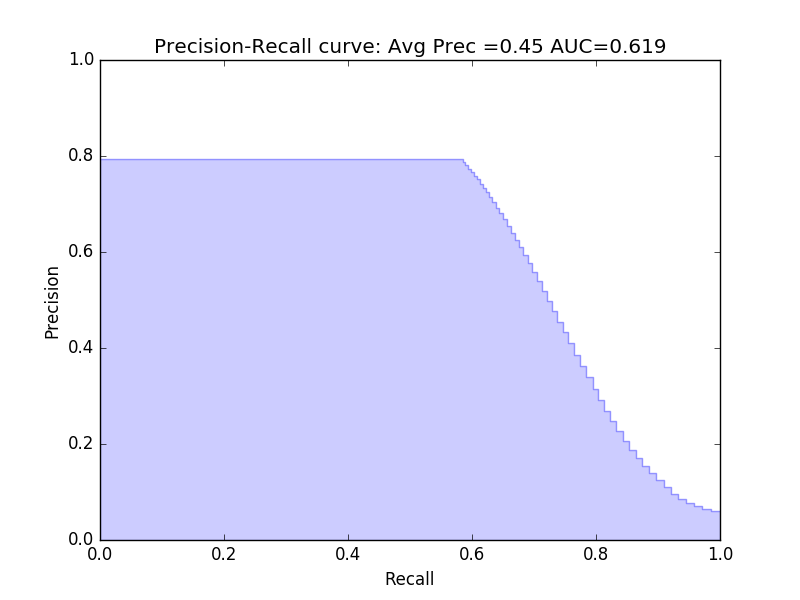
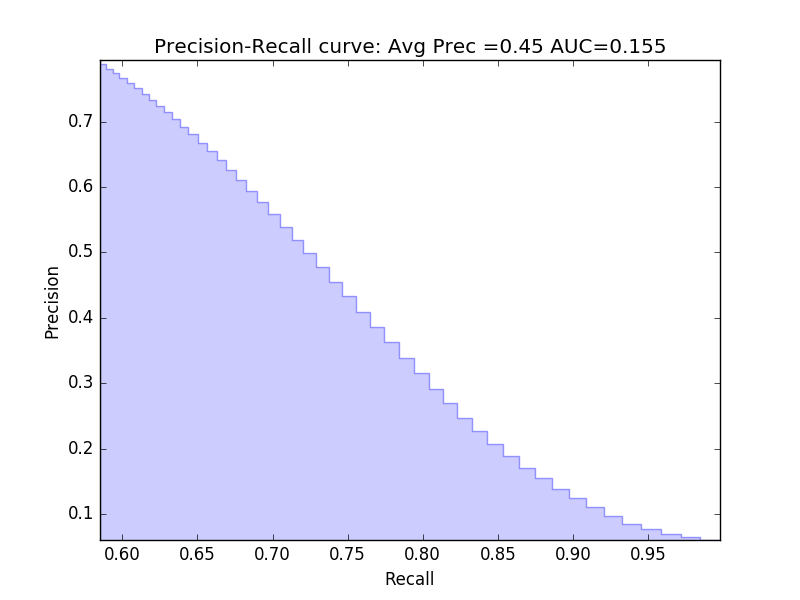
Decide what AUC choose

diff --git a/tools/visualization.py b/tools/visualization.py
@@ -25,10 +25,10 @@ def plot_metrics_vs_threshold(precision, recall, F1_score, threshold,
 
 
 def plot_precision_recall_curve(precision, recall, output_folder=""):
-    precision.insert(0, precision[0])
-    precision.insert(len(precision), precision[-1])
-    recall.insert(0, 1)
-    recall.insert(len(recall), 0)
+    # precision.insert(0, precision[0])
+    # precision.insert(len(precision), precision[-1])
+    # recall.insert(0, 1)
+    # recall.insert(len(recall), 0)
     area = auc(recall, precision)
     plt.step(recall, precision, color='b', alpha=0.2,
              where='post')
@@ -37,8 +37,10 @@ def plot_precision_recall_curve(precision, recall, output_folder=""):
     average_precision = reduce(lambda x, y: x + y, precision) / len(precision)
     plt.xlabel('Recall')
     plt.ylabel('Precision')
-    plt.ylim([0, 1])
-    plt.xlim([0, 1])
+    # plt.ylim([0, 1])
+    # plt.xlim([0, 1])
+    plt.ylim([min(precision), max(precision)])
+    plt.xlim([min(recall), max(recall)])
     plt.title('Precision-Recall curve: Avg Prec ={0:0.2f} AUC={1:0.3f}'.format(average_precision, area))
     if output_folder != "":
         plt.savefig(os.path.join(output_folder, "task_1_2_precision_recall.png"))
